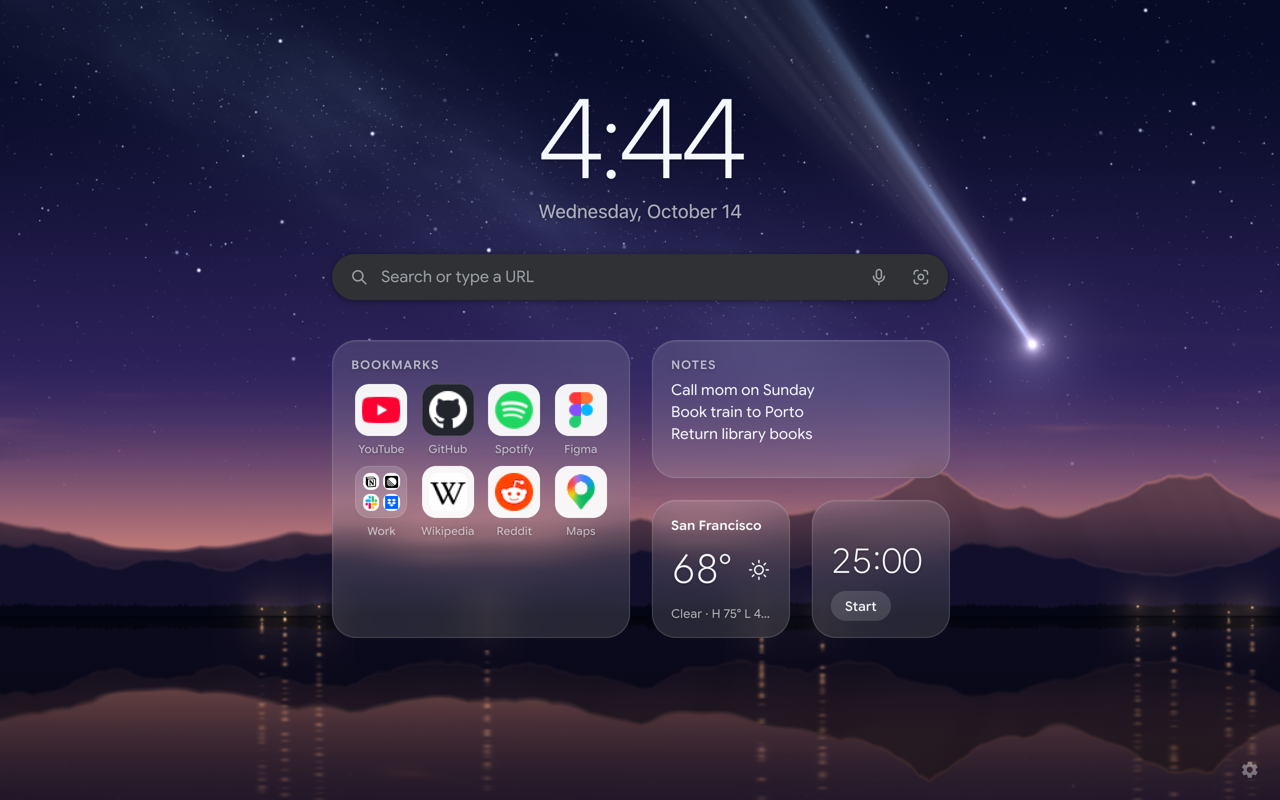
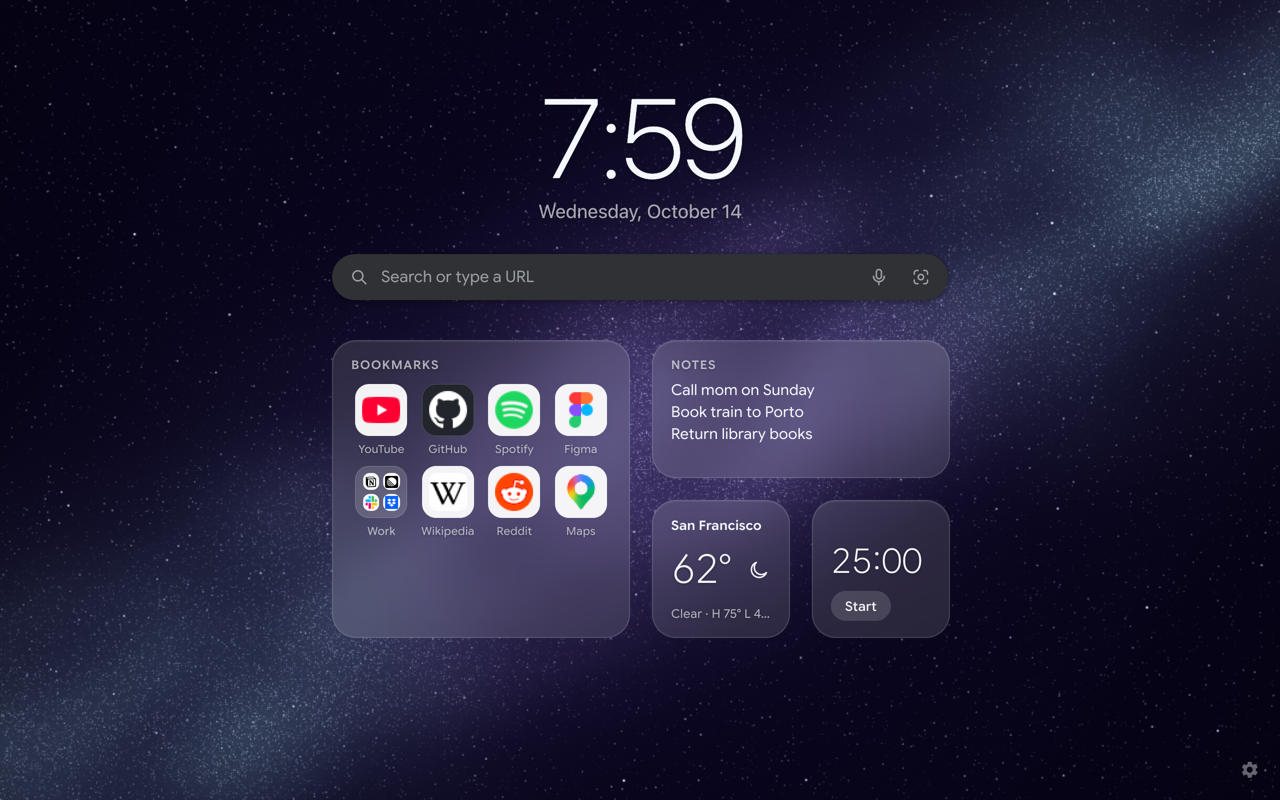
Store screenshots: reshot without removed scenes (#82)
Comet, Koi and Sakura are gone (#80), and the settings panel changed.
Now: Night sky, Silk, Clouds, Bloom with the panel, Wave in Japanese.

diff --git a/docs/brand/BRAND.md b/docs/brand/BRAND.md
@@ -237,8 +237,10 @@ ask for.
   on a still of Silk), `promo-marquee-1400.png` (the lockup on Silk) and
   `screenshot-1…5-*.png`. The screenshots are the real built extension in
   headless Chrome for Testing at 2x, scaled to 1280 × 800, with sample
-  content: Comet (removed 2026-10-14; reshoot this one) with the start widgets, Silk with a planner, Aurora with no
-  widgets, Bloom with the settings panel beside it, Wave in Japanese.
+  content: Night sky with the start widgets, Silk with a planner, Clouds
+  with no widgets, Bloom with the settings panel beside it, Wave in
+  Japanese. Reshot on 2026-10-14 after Comet, Koi and Sakura were removed;
+  reshoot when a pictured scene or the panel changes.
   No video yet.
 
 - Lockup (store, README): mark + wordmark side by side, wordmark ink height
